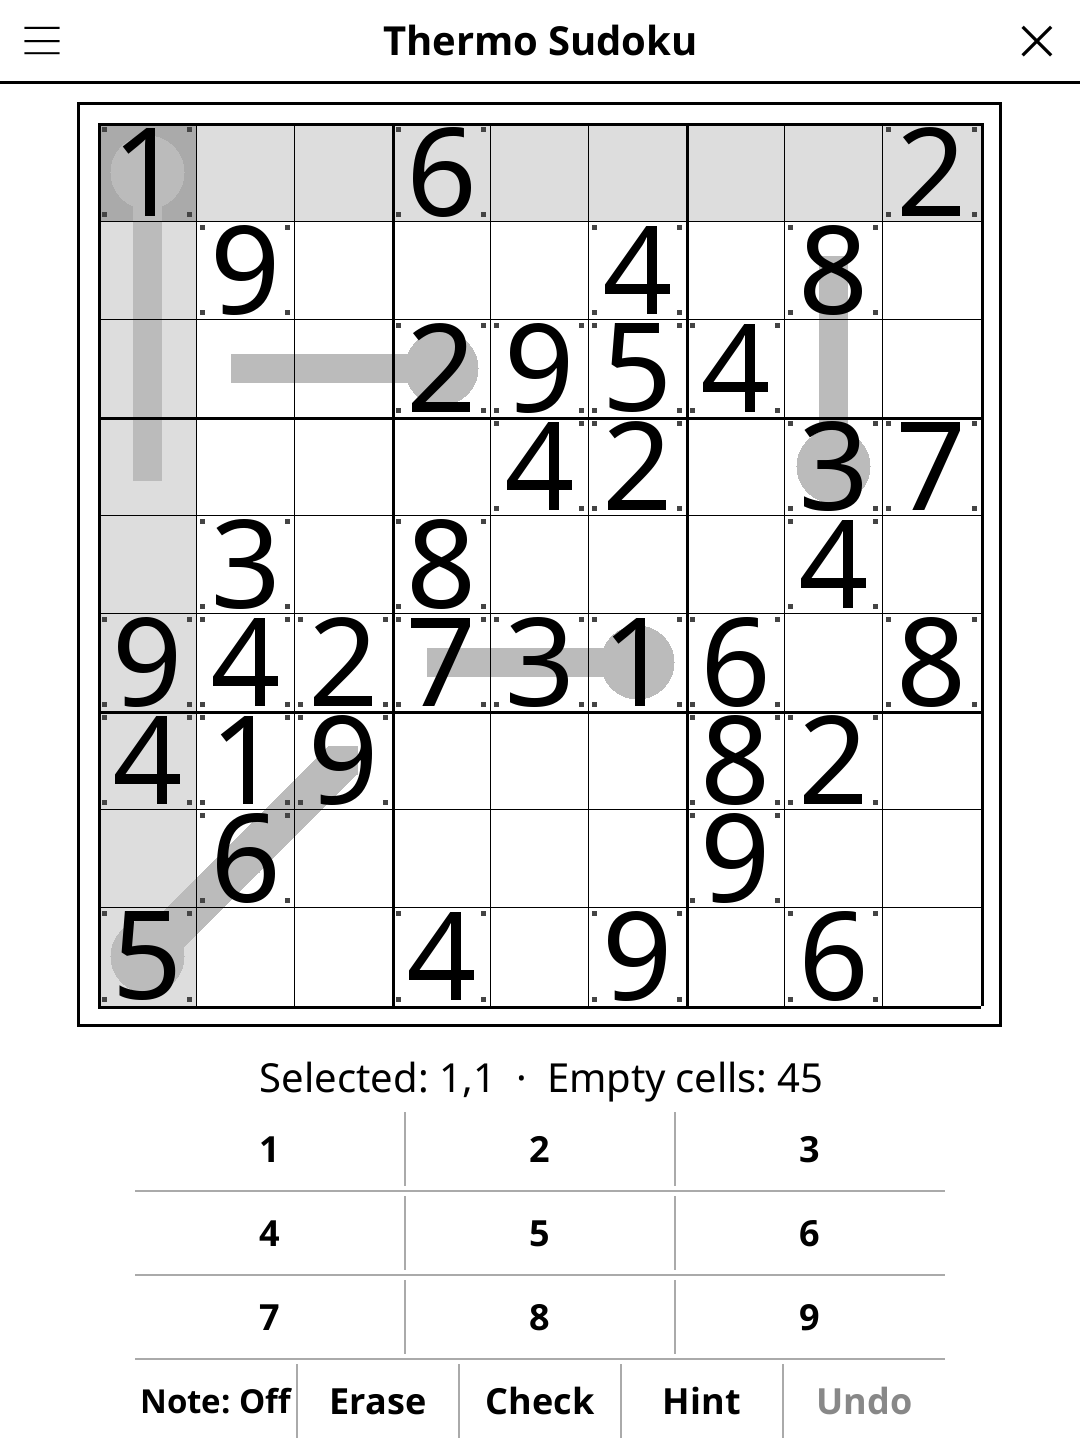
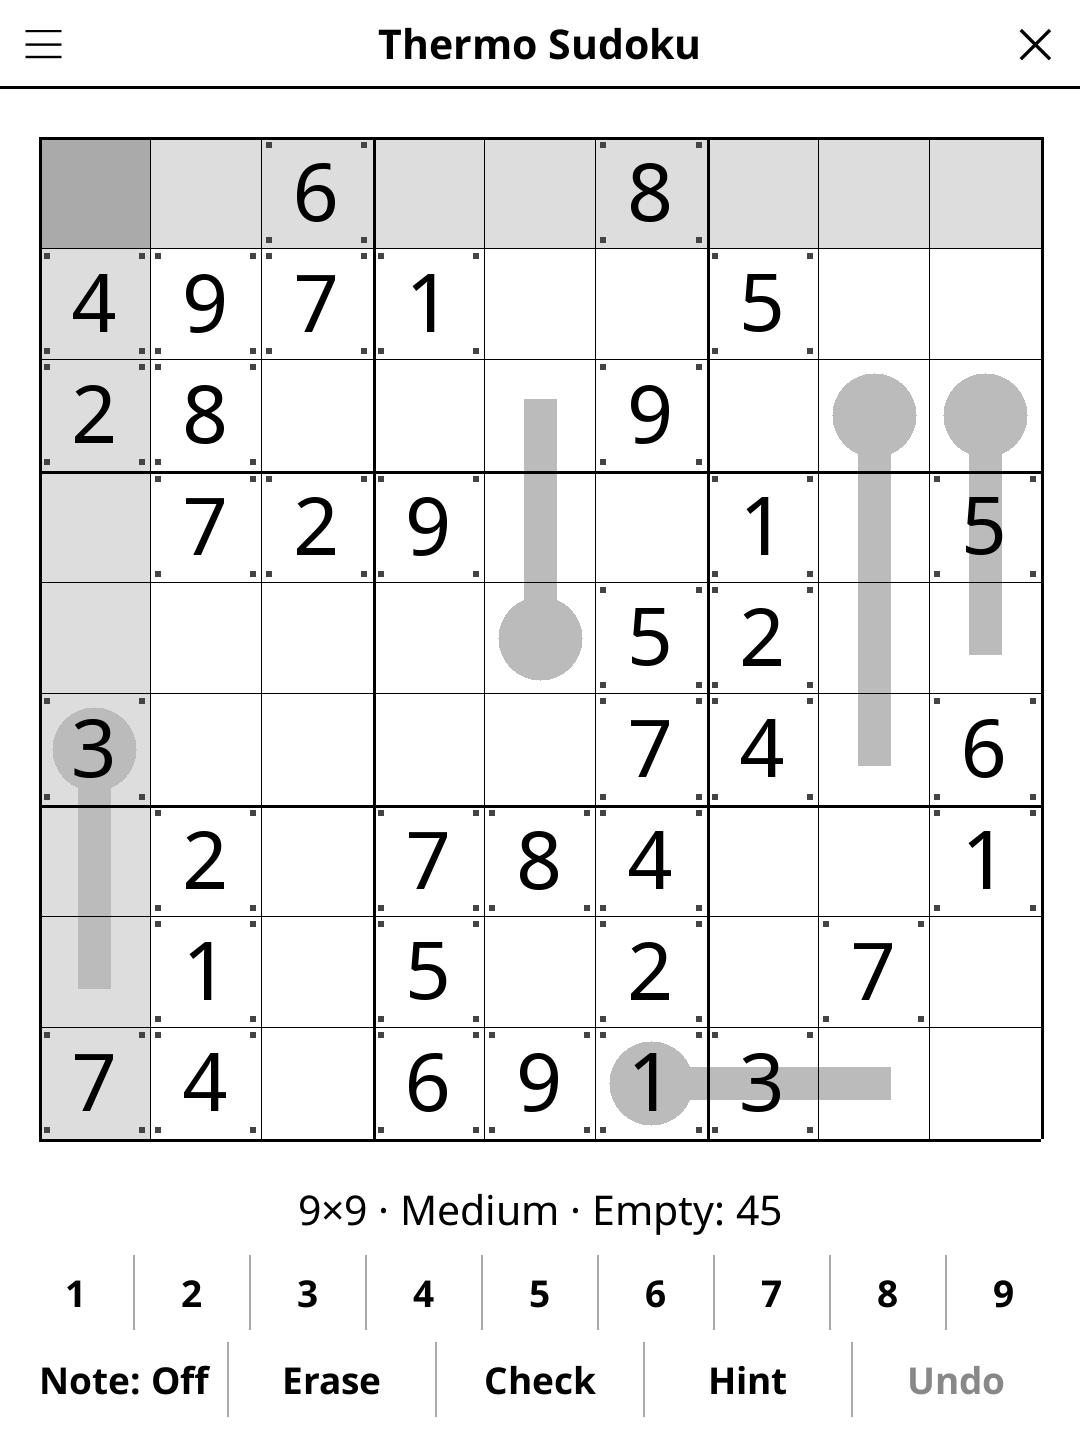
release: 1.5.0 -- redesigned screen, harmonised menu, New game at round end
Screen redesign (full-width action bar, unified pad, status line, larger
board), harmonised title-bar menu, and a "New game" button once the round
is over. See CHANGELOG.md.

diff --git a/CHANGELOG.md b/CHANGELOG.md
@@ -2,6 +2,25 @@
 
 All notable changes to this project will be documented in this file.
 
+## [1.5.0] - 2026-10-30
+
+### Changed
+- Redesigned play screen (sudoku-common 1.5.0): the board is larger, filling
+  the room the controls leave, with the digits 1-9 on one even row and Note /
+  Erase / Check / Hint / Undo in a full-width bar under the status line.
+- The status line reads "9×9 · Medium · Empty: 45" and wraps in landscape
+  instead of being cut off.
+- The title-bar menu shows "Difficulty: …" and "Show solution" / "Hide
+  solution" (was "Diff: …" and "Show result" / "Hide result"), like every
+  other game.
+- Once the puzzle is solved, the tool bar shows "New game" in place of
+  Note/Erase/Check/Hint/Undo; an Undo that un-solves the grid brings the tools
+  back.
+
+### Fixed
+- Digits overflowed their cells: the shared font fit accepted every size.
+  Digits and notes now fit their cell on every screen.
+
 ## [1.4.1] - 2026-10-02
 
 ### Fixed

diff --git a/README.md b/README.md
@@ -40,7 +40,7 @@ Standard 9×9 Sudoku rules plus **thermometer constraints**: digits along each t
 | Check progress | Tap **Check** |
 | Get a hint | Tap **Hint** (tap again to go deeper) |
 | New game | Tap **New game** |
-| Change difficulty | Tap **Diff** |
+| Change difficulty | Tap **Difficulty** |
 | Show rules | Tap **Rules** |
 
 ## License
